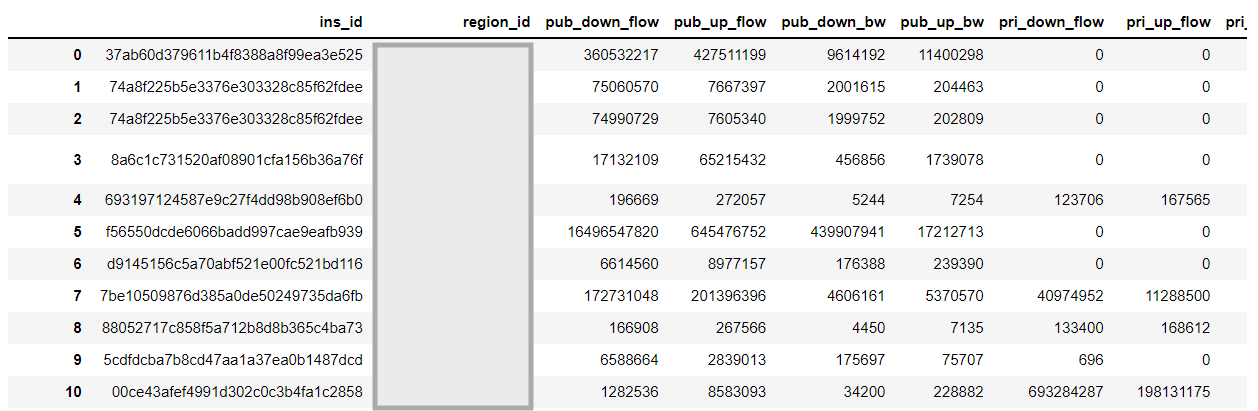
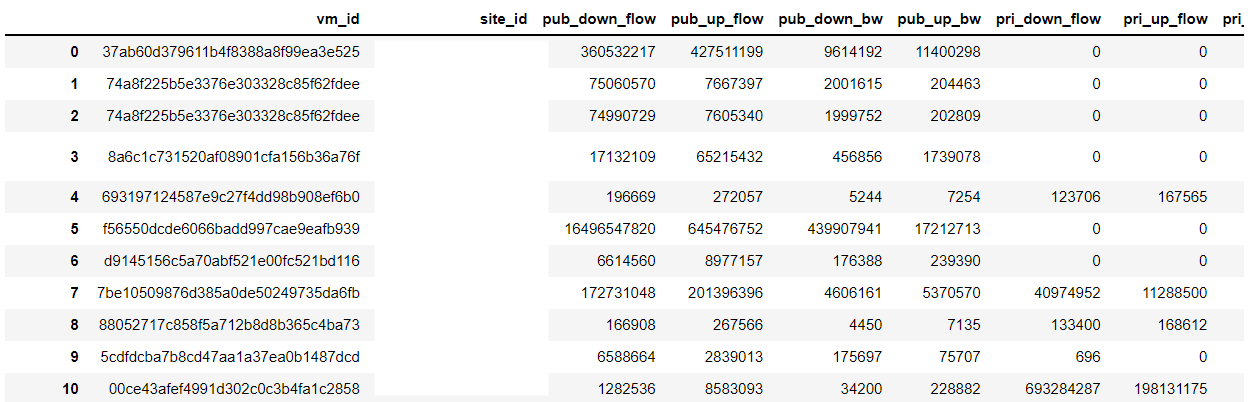
up

diff --git a/README.md b/README.md
@@ -16,37 +16,37 @@ Each dataset contains the workloads traces (CPU, memory, storage, bandwidth) at 
 
 Specifically, each dataset consists of five CSV files.
 
- - **T\_INSTANCE\_CPU**: the CPU usage data of each VM;
- - **T\_INSTANCE\_BANDWIDTH**: the bandwidth (both uplink and downlink) usage data of each VM;
- - **T\_NET\_DISCOVER\_MTR**: the RTT among edge sites;
- - **e\_vm\_instance**: the VM affiliation table, including customer id, mirror id, specifications, etc;
- - **e_nc**: physical machine(PM) ID, the CPU, memory, and storage size of each physical machine.
+ - **VM\_CPU.csv**: the CPU usage data of each VM;
+ - **VM\_BANDWIDTH.csv**: the bandwidth (both uplink and downlink) usage data of each VM;
+ - **SITE\_RTT.csv**: the RTT among edge sites;
+ - **VM.csv**: the VM affiliation table, including customer id, mirror id, specifications, etc;
+ - **PM.csv**: physical machine(PM) ID, the CPU, memory, and storage size of each physical machine.
 
 ## Data sample
 
-### T\_INSTANCE\_CPU.csv
+### VM\_CPU.csv
 <img src='images/small_cpu.png'>
 
-> (1) `ins_id` is the VM ID;
-> (2) `region_id` is the edge site ID;
+> (1) `vm_id` is the VM ID;
+> (2) `site_id` is the edge site ID;
 > (3)`cpu_rate` is the CPU usage. For example, 0.6 indicates 60%;
 > (4) `report_ts` is the Unix timestamp of data collection.
 
 
-### T\_INSTANCE\_BANDWIDTH.csv
+### VM\_BANDWIDTH.csv
 <img src='images/small_bw.png'>
 
 > `pub` is the public network, `pri` is the internal network, `up` is the uplink, `down` indicates the downlink, `bw` is the bandwidth usage (bps), and `flow` is the number of flows
 
-### T\_NET\_DISCOVER\_MTR.csv
+### SITE\_RTT.csv
 <img src='images/small_rtt.png'>
 
-### e\_vm\_instance.csv
+### VM.csv
 <img src='images/small_ins.png'>
 
-> `uid` is the customer ID; `nc_name` is the physical machine (PM) ID where the VMs are hosted; `status` is the status of instance; `image_id` is the system image ID used by the instance;`os_type` is the OS type; `os_name` is the OS name.
+> `uid` is the customer ID; `pm_name` is the physical machine (PM) ID where the VMs are hosted; `status` is the status of instance; `image_id` is the system image ID used by the instance;`os_type` is the OS type; `os_name` is the OS name.
 
-### e\_nc.csv
+### PM.csv
 <img src='images/small_nc.png'>
 
 > `cores`, `memory`, and `storage` are the number of CPU cores, memory size (MB), and disk size (MB) of the physical machine, respectively.
